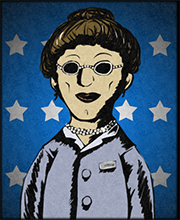
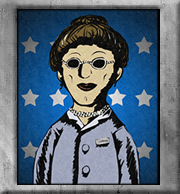
update

diff --git a/Nukes of the patriots/GameManager.cpp b/Nukes of the patriots/GameManager.cpp
@@ -1,5 +1,6 @@
 #include "GameManager.h"
 #include "GUIManager.h"
+#include "ResourceHandler.h"
 #include "Randomizer.h"
 #include "Capitalist.h"
 #include "Communist.h"
@@ -76,10 +77,14 @@ void GameManager::loadPresidents()
 			{
 				std::string filename = childNode->Attribute("filename");
 				std::string key		 = "President/" + filename.substr(0, filename.length() - 4);
-				mPresidentVector.push_back(std::make_shared<President>(key));
+				std::shared_ptr<President> president = std::make_shared<President>(key);
+				mPresidentVector.push_back(president);
+				std::string mapKey = "Plaques/" + filename.substr(0, filename.length() - 4) + "-plaque";
+				mPresidentPlaqueMap[president] = &ResourceHandler::getInstance()->getTexture(mapKey);
 				childNode = childNode->NextSiblingElement("image");
 			}
 		}
+
 		if(strcmp(images->Attribute("directory"), "Generals") == 0)
 		{
 			tinyxml2::XMLElement *childNode = images->FirstChildElement("image");
@@ -87,7 +92,10 @@ void GameManager::loadPresidents()
 			{
 				std::string filename = childNode->Attribute("filename");
 				std::string key		 = "Generals/" + filename.substr(0, filename.length() - 4);
-				mGeneralVector.push_back(std::make_shared<President>(key));
+				std::shared_ptr<President> general = std::make_shared<President>(key);
+				mGeneralVector.push_back(general);	
+				std::string mapKey		 = "Plaques/" + filename.substr(0, filename.length() - 4) + "-plaque";
+				mGeneralPlaqueMap[general] = &ResourceHandler::getInstance()->getTexture(mapKey);
 				childNode = childNode->NextSiblingElement("image");
 			}
 		}
@@ -106,6 +114,16 @@ std::shared_ptr<President> GameManager::getRandomPresident()
 std::shared_ptr<President> GameManager::getGeneral(int number)
 {
 	return mGeneralVector[number];
+}
+
+sf::Texture& GameManager::getPresidentPlaque(std::shared_ptr<President> president)
+{
+	return *mPresidentPlaqueMap[president];
+}
+
+sf::Texture& GameManager::getGeneralPlaque(std::shared_ptr<President> general)
+{
+	return *mGeneralPlaqueMap[general];
 }
 
 void GameManager::addSuperPower(std::shared_ptr<SuperPower> power)

diff --git a/Nukes of the patriots/Communist.h b/Nukes of the patriots/Communist.h
@@ -23,6 +23,7 @@ class GUIElement;
 class GUIButton;
 class GUIWindow;
 class GUIText;
+class GUIImage;
 class GUIEditField;
 class Randomizer;
 
@@ -77,8 +78,6 @@ private:
 		return atoi(str.c_str());
 	}
 	
-
-	
 	std::vector<sf::Texture*> PropagandaFood;
 	std::vector<sf::Texture*> PropagandaGoods;
 	std::vector<sf::Texture*> PropagandaTech;
@@ -91,13 +90,6 @@ private:
 	std::map<std::string, std::pair<sf::FloatRect, sf::Texture*> > CommunistButtons;
 	std::map<std::string, std::pair<sf::FloatRect, sf::Texture*> > CommunistWindows;
 	std::map<std::string, std::shared_ptr<sf::Music> >			   CommunistMusic;
-
-	std::shared_ptr<President> mGeneral;
-	std::shared_ptr<President> mFirstGeneral;
-	std::shared_ptr<President> mSecondGeneral;
-	std::shared_ptr<President> mThirdGeneral;
-	std::shared_ptr<President> mFourthGeneral;
-	std::shared_ptr<President> mFifthGeneral;
 
 	std::vector<std::map<std::string, int> > mYearVector;
 	std::vector<std::shared_ptr<GUIButton> > mResourcesFoodButtons;
@@ -123,13 +115,7 @@ private:
 
 	std::shared_ptr<President> mGeneral;
 	std::shared_ptr<President> mFirstGeneral;
-	std::shared_ptr<President> mSecondGeneral;
-	std::shared_ptr<President> mThirdGeneral;
-	std::shared_ptr<President> mFourthGeneral;
-	std::shared_ptr<President> mFifthGeneral;
  
-	//President	*mPresident;
-
 	std::shared_ptr<GUIText> mNuclearText;
 	std::shared_ptr<GUIText> mSpaceText;
 	std::shared_ptr<GUIText> mSpyText;
@@ -280,7 +266,8 @@ private:
 	std::shared_ptr<GUIButton> mPickedGeneralButton;
 
 	std::shared_ptr<GUIButton> mFirstGeneralButton;
-	std::shared_ptr<GUIButton> mSecondGeneralButton;
+	std::shared_ptr<GUIImage>  mFirstGeneralPlaque;
+	std::shared_ptr<GUIImage>  mPickedGeneralPlaque;
 
 	std::shared_ptr<GUIButton> mGoToNextPortraitButton;
 	std::shared_ptr<GUIButton> mGoToPreviousPortraitButton;

diff --git a/Nukes of the patriots/Capitalist.h b/Nukes of the patriots/Capitalist.h
@@ -8,11 +8,11 @@
 #ifndef CAPITALIST_H
 #define CAPITALIST_H
 
-//class President;
 class GUIManager;
 class GUIElement;
 class GUIButton;
 class GUIText;
+class GUIImage;
 class GUIWindow;
 class President;
 class Randomizer;
@@ -179,8 +179,11 @@ private:
 	std::shared_ptr<GUIWindow> mChoosePresidentWindow;
 	std::shared_ptr<GUIWindow> mPickedPresidentWindow;
 	std::shared_ptr<GUIButton> mFirstPresidentButton;
+	std::shared_ptr<GUIImage>  mFirstPresidentPlaque;
 	std::shared_ptr<GUIButton> mSecondPresidentButton;
+	std::shared_ptr<GUIImage>  mSecondPresidentPlaque;
 	std::shared_ptr<GUIButton> mPickedPresidentButton;
+	std::shared_ptr<GUIImage>  mPickedPresidentPlaque;
 	std::shared_ptr<GUIButton> mClosePresidentWindow;
 	std::shared_ptr<GUIButton> mClosePickedPresidentWindow;
 };

diff --git a/Nukes of the patriots/GUIButton.h b/Nukes of the patriots/GUIButton.h
@@ -4,7 +4,6 @@
 #include "GUIElement.h"
 #include <SFML\Graphics\Sprite.hpp>
 
-#include <map>
 
 class GUIButton: public GUIElement
 {
